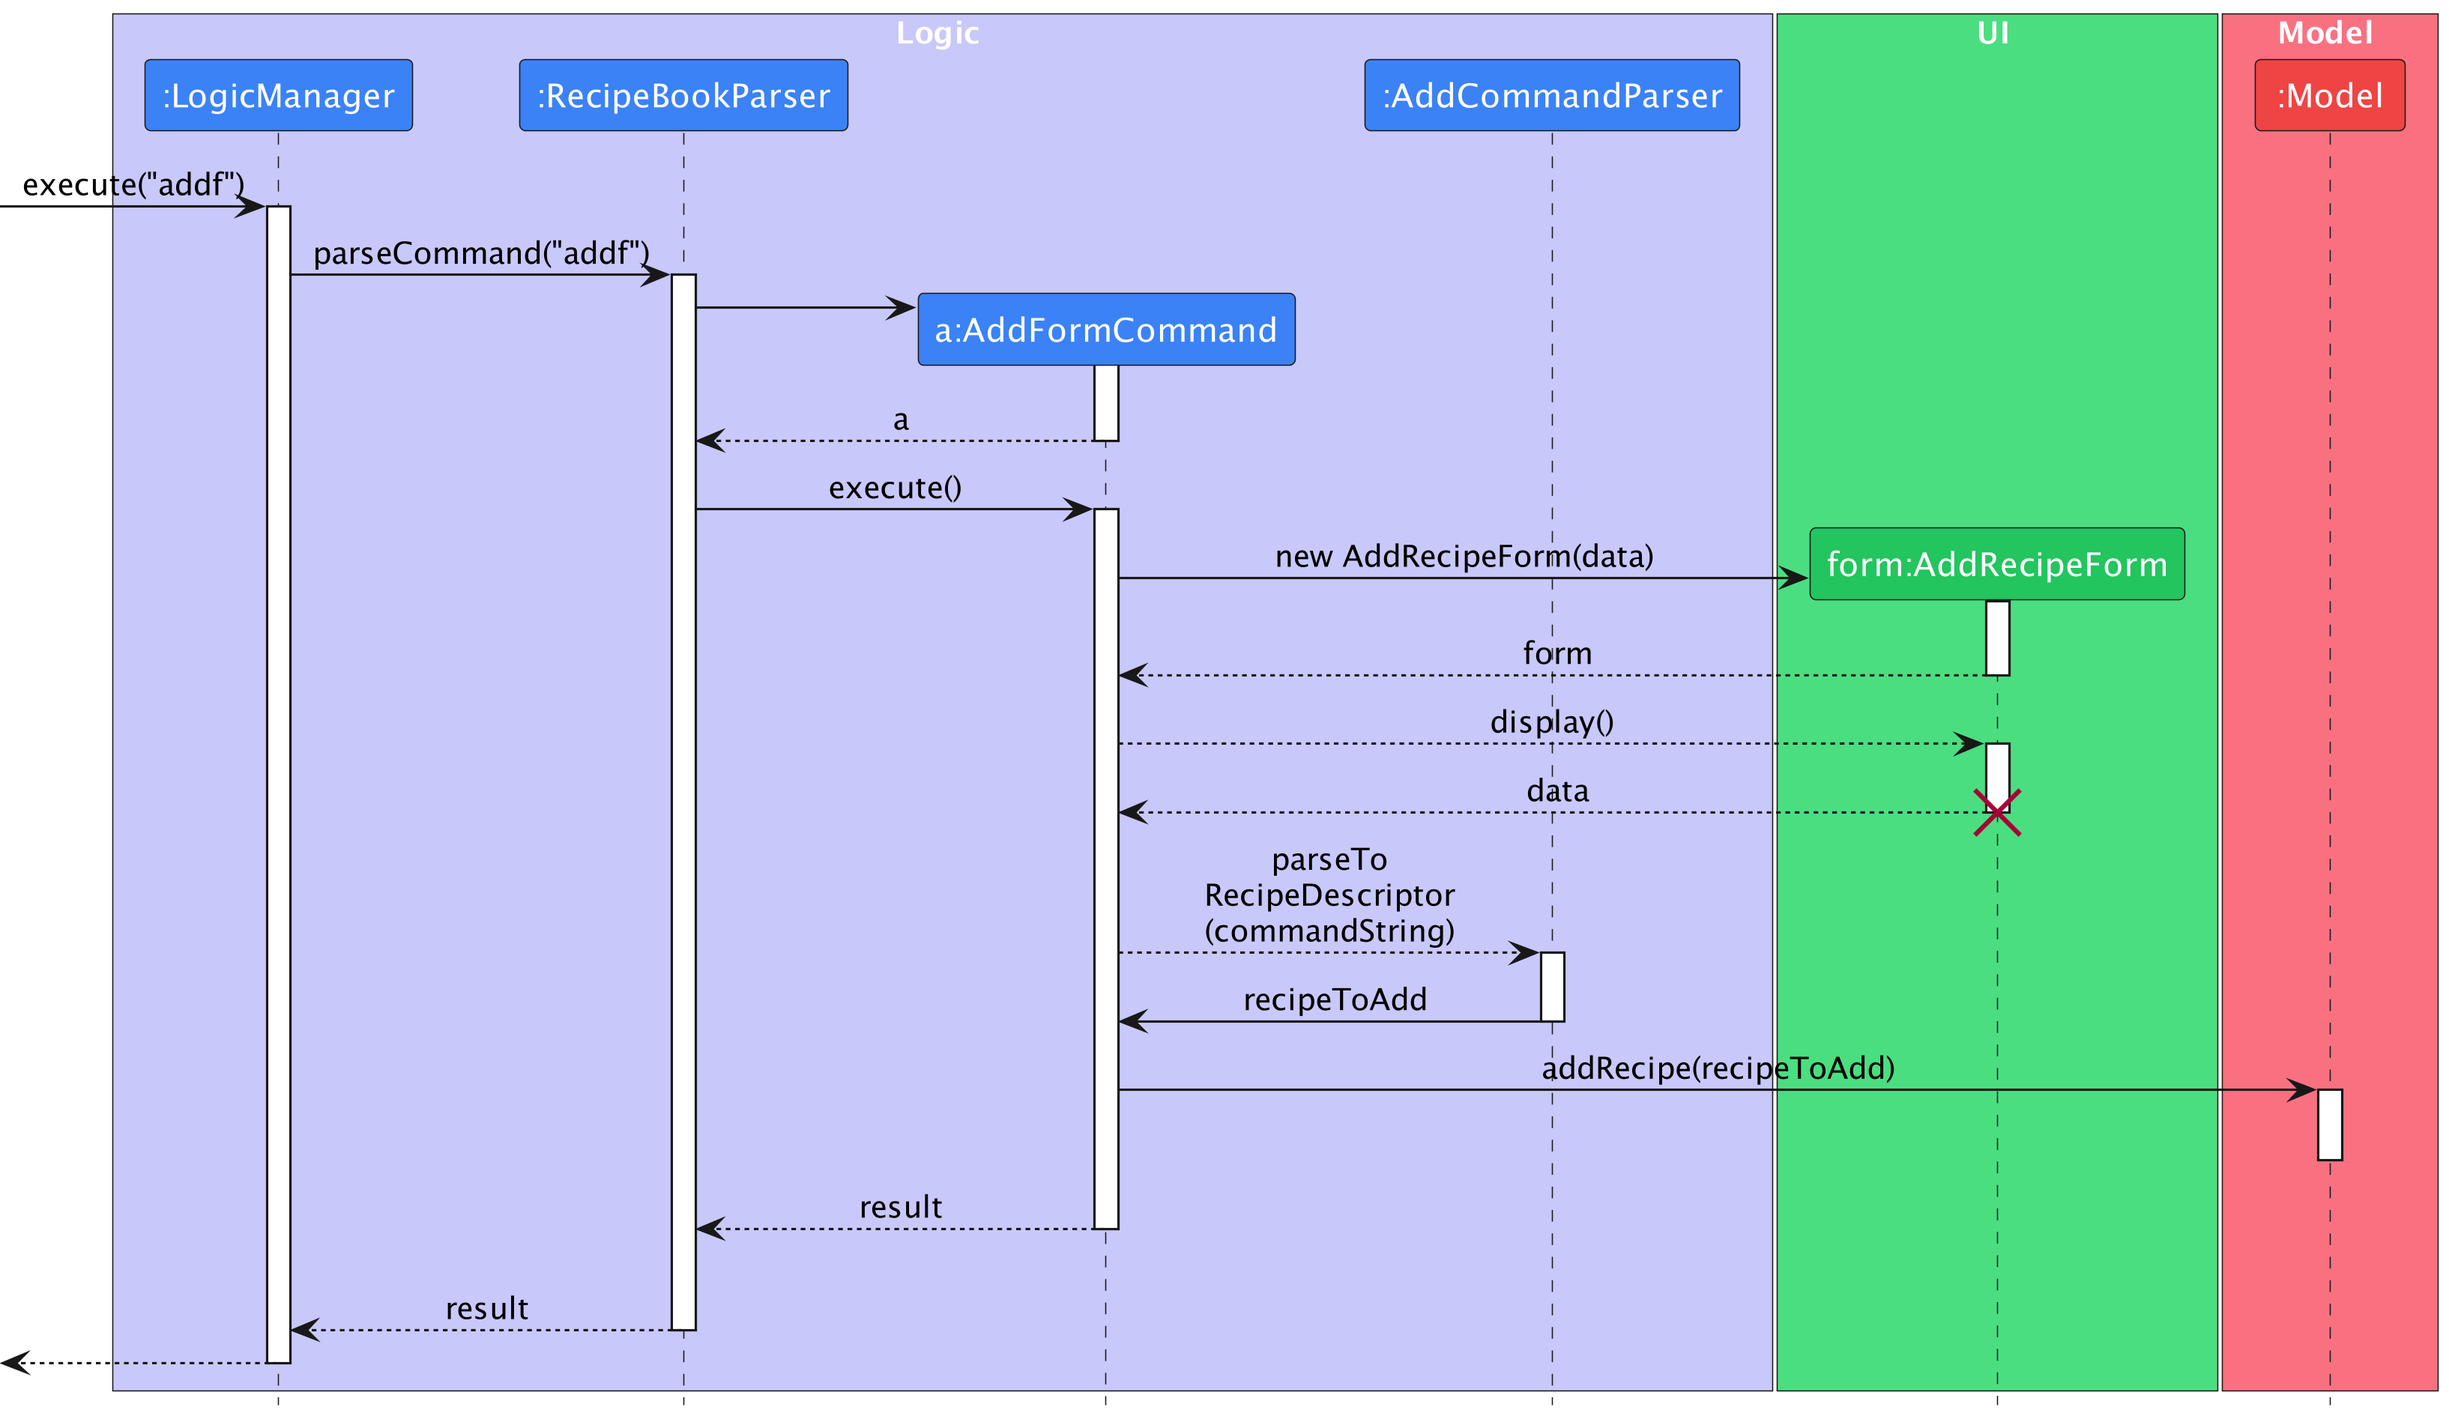
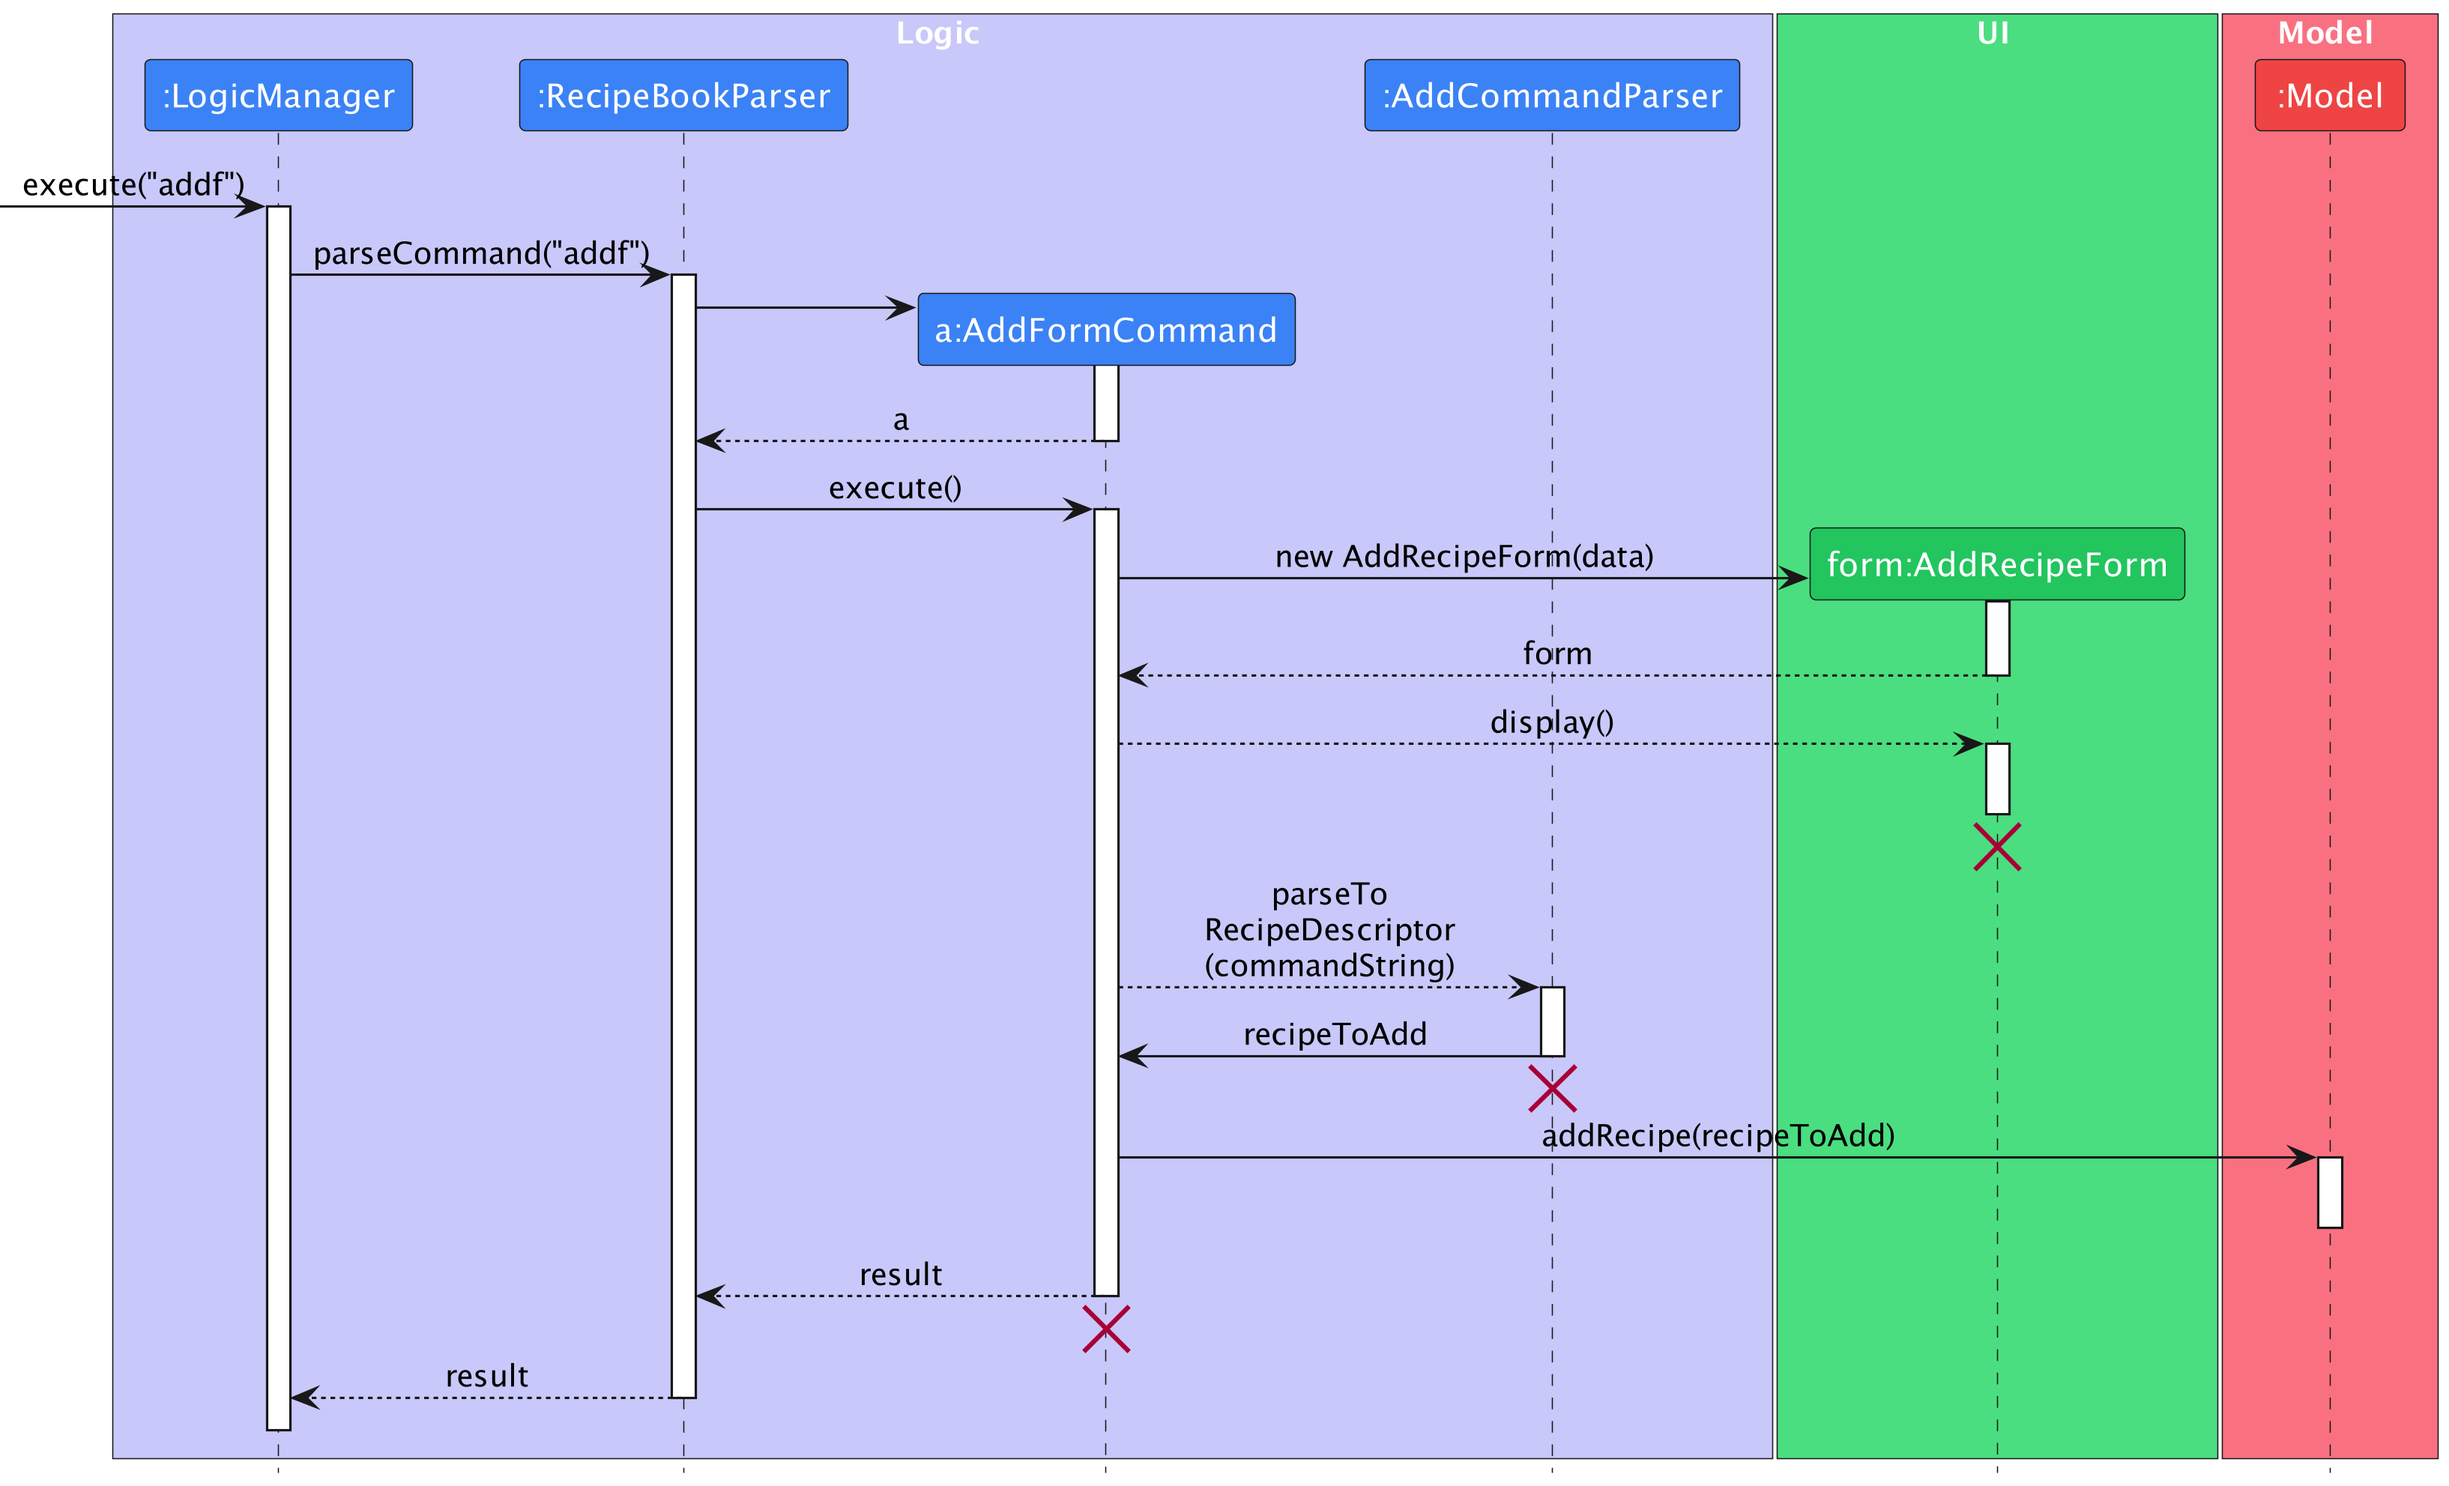
Add updated sequence diagrams

diff --git a/docs/DeveloperGuide.md b/docs/DeveloperGuide.md
@@ -62,11 +62,14 @@ Any unfamiliar RIZZipe-specific terms can be found in the [glossary](#glossary) 
 --------------------------------------------------------------------------------------------------------------------
 
 <div style="page-break-after: always;"></div>
+
 ## **Design**
 
 <div markdown="span" class="alert alert-success">
+
 :bulb: **Tip:** The `.puml` files used to create diagrams in this document can be found in the [diagrams](https://github.com/AY2223S2-CS2103T-T13-2/tp/tree/master/docs/diagrams/) folder. 
 Refer to the [_PlantUML Tutorial_ at se-edu/guides](https://se-education.org/guides/tutorials/plantUml.html) to learn how to create and edit diagrams.
+
 </div>
 
 ### Architecture
@@ -78,6 +81,7 @@ To better illustrate and explain the high-level design of the App, we have also 
 <img class="diagram" src="images/ArchitectureDiagram.png" width="400px">
 
 <div style="page-break-after: always;"></div>
+
 #### Main components of the architecture
 
 The `Main` part of the app has 2 classes called `Main` and `MainApp`. Its responsibilities are:
@@ -106,7 +110,7 @@ scenario where the user issues the command `delete 1`.
 
 Each of the four main components as shown in the diagram above,
 * defines its API in an `interface` with the same name as the Component.
-* implements its functionality using a concrete `{Component name}Manager` class 
+* implements its functionality using a concrete `{Component name}Manager` class
   (which follows the corresponding API `interface` mentioned above).
 
 For instance, the `Logic` component defines its APi in the `Logic.java` interface and implements its functionality using the `LogicManager.java` class which follows the `Logic` interface.
@@ -136,7 +140,9 @@ The `UI` component,
 * depends on some classes in the `Model` component, as it displays `Recipe` object residing in the `Model`.
 
 <div style="page-break-after: always;"></div>
+
 ### Logic component
+
 The **API** of this component is specified in [`Logic.java`](https://github.com/AY2223S2-CS2103T-T13-2/tp/blob/master/src/main/java/seedu/recipe/logic/Logic.java)
 
 Here's a (partial) class diagram of the `Logic` component:
@@ -255,6 +261,7 @@ Classes used by multiple components are in the `seedu.recipe.commons` package.
 --------------------------------------------------------------------------------------------------------------------
 
 <div style="page-break-after: always;"></div>
+
 ## **Feature Implementation**
 
 This section describes some noteworthy details on how certain features are implemented.
@@ -309,6 +316,7 @@ The following sequence diagram illustrates how the different components interact
 <img class="diagram" src="images/EditRecipeFormSequenceDiagram.png" width="1128"/>  
 
 <div style="page-break-after: always;"></div>
+
 #### Implementation
 
 Likewise, the `EditRecipeForm` also inherits from the `RecipeForm` base class and hence supports a similar set of operations

diff --git a/docs/AboutUs.md b/docs/AboutUs.md
@@ -45,7 +45,7 @@ We are a team based in the [School of Computing, National University of Singapor
 [[portfolio](team/seeusim.md)]
 
 - Role: Code Quality, Integration Head
-- Responsibilities: Core Infrastructure, Code Validation, Project Management
+- Responsibilities: Core Infrastructure, Project Management, Lead Editor
 
 ### Tang Zong Hao
 
@@ -55,4 +55,4 @@ We are a team based in the [School of Computing, National University of Singapor
 [[portfolio](team/zhtang29.md)]
 
 - Role: Deliverables, Tracking and Deadlines Head, Documentation Head
-- Responsibilities: Project management, Project Documentation
+- Responsibilities: Project Management, Project Documentation

diff --git a/docs/Testing.md b/docs/Testing.md
@@ -45,3 +45,7 @@ This project has three types of tests:
    e.g. `seedu.recipe.storage.StorageManagerTest`
 1. Hybrids of unit and integration tests. These test are checking multiple code units as well as how the are connected together.<br>
    e.g. `seedu.recipe.logic.LogicManagerTest`
+
+## User Acceptance Testing (UAT)
+
+As our product has many Graphic User Interface features, we recommend that you follow the UAT procedures, as defined [here](DeveloperGuide.md#appendix-instructions-for-user-acceptance-testing)
